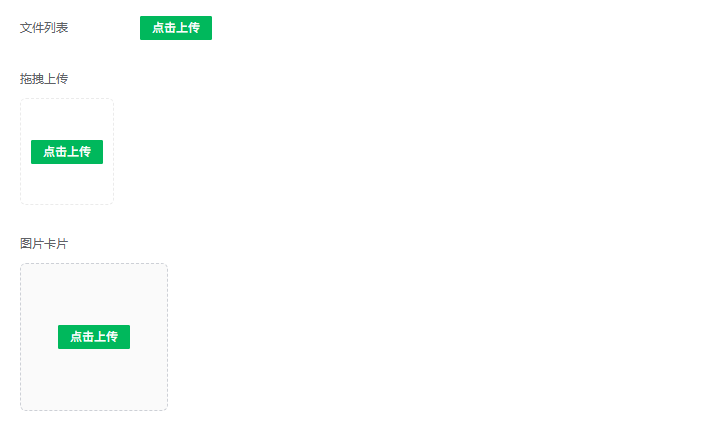
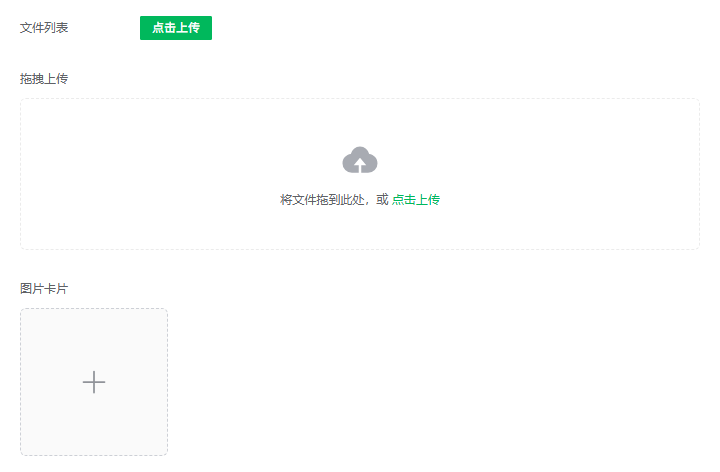
feat: 优化上传组件UI样式并调整布局间距
调整选项配置行的底部间距，统一标签页头部高度计算方式，重构上传组件的拖拽和显示样式，优化表单预览对话框的布局和样式，更新相关测试用例以匹配新的UI结构。

diff --git a/src/views/components/widget-renderer.vue b/src/views/components/widget-renderer.vue
@@ -107,15 +107,26 @@
         <el-upload
             v-else-if="widgetData.code === widgetList.WIDGET_UPLOAD.code"
             v-model:file-list="renderValue"
+            class="widget-upload"
             v-bind="renderComponentAttributes"
             v-on="getWidgetComponentEvents(widgetData, formData, widgetFormData)"
         >
-            <el-button type="primary">点击上传</el-button>
+            <div v-if="renderComponentAttributes.drag" class="widget-upload__drop-content" :class="{ 'widget-upload__drop-content--card': renderComponentAttributes.listType === 'picture-card' }">
+                <el-icon class="widget-upload__drop-icon" aria-hidden="true"><UploadFilled /></el-icon>
+                <div v-if="renderComponentAttributes.listType === 'picture-card'" class="widget-upload__drop-text">拖拽或点击添加</div>
+                <div v-else class="widget-upload__drop-text">
+                    将文件拖到此处，或
+                    <em>点击上传</em>
+                </div>
+            </div>
+            <el-icon v-else-if="renderComponentAttributes.listType === 'picture-card'" class="widget-upload__add" aria-label="添加图片"><Plus /></el-icon>
+            <el-button v-else type="primary">点击上传</el-button>
         </el-upload>
     </el-form-item>
 </template>
 <script setup lang="ts">
 import { computed, type PropType } from "vue";
+import { Plus, UploadFilled } from "@element-plus/icons-vue";
 import { type WidgetFormData, type WidgetNormalData } from "@/views/composables/types";
 import { useFormItemRules } from "@/views/composables/widgets/form";
 import { getWidgetComponentEvents, getWidgetList } from "@/views/composables/widget-registry";
@@ -182,5 +193,91 @@ const widgetList = getWidgetList();
 .html-contents {
     overflow-wrap: anywhere;
     font-size: 14px;
+}
+
+.widget-upload {
+    width: 100%;
+    min-width: 0;
+
+    // 卡片拖拽使用内层边框，消除双层边框和默认 padding 对居中的影响。
+    :deep(.el-upload--picture-card.is-drag) {
+        border: 0;
+
+        .el-upload-dragger {
+            width: 100%;
+            height: 100%;
+            padding: 0;
+            display: flex;
+            align-items: center;
+            justify-content: center;
+
+            &.is-dragover {
+                padding: 0;
+            }
+        }
+    }
+
+    :deep(.el-upload-list--text),
+    :deep(.el-upload-list--picture) {
+        width: 100%;
+        min-width: 0;
+
+        .el-upload-list__item-name {
+            white-space: normal;
+            overflow-wrap: anywhere;
+            align-items: flex-start;
+            text-align: left;
+            line-height: 1.5;
+
+            .el-icon--document {
+                flex-shrink: 0;
+                height: 1.5em;
+            }
+        }
+
+        .el-upload-list__item-file-name {
+            white-space: normal;
+            overflow-wrap: anywhere;
+            text-overflow: clip;
+        }
+    }
+}
+
+.widget-upload__drop-content {
+    display: flex;
+    flex-direction: column;
+    align-items: center;
+    justify-content: center;
+    gap: 12px;
+    padding: 0 8px;
+
+    &--card {
+        gap: 8px;
+
+        .widget-upload__drop-icon {
+            font-size: 28px;
+        }
+    }
+}
+
+.widget-upload__drop-icon {
+    font-size: 40px;
+    color: var(--el-text-color-placeholder);
+}
+
+.widget-upload__drop-text {
+    font-size: 12px;
+    line-height: 1.5;
+    color: var(--el-text-color-regular);
+
+    em {
+        color: var(--el-color-primary);
+        font-style: normal;
+    }
+}
+
+.widget-upload__add {
+    font-size: 28px;
+    color: var(--el-text-color-secondary);
 }
 </style>

diff --git a/src/views/components/designer-form-preview-dialog.vue b/src/views/components/designer-form-preview-dialog.vue
@@ -3,9 +3,6 @@
         <div class="designer-form-preview-dialog__content">
             <designer-form-preview-renderer v-if="widgetFormData" :widget-form-data="widgetFormData" />
         </div>
-        <template #footer>
-            <el-button @click="visible = false">关闭</el-button>
-        </template>
     </el-dialog>
 </template>
 
@@ -23,14 +20,47 @@ const visible = defineModel<boolean>({ required: true });
 </script>
 
 <style lang="scss">
-.designer-form-preview-dialog {
+.el-dialog.designer-form-preview-dialog {
+    --el-dialog-padding-primary: 0px;
     max-height: 90vh;
     display: flex;
     flex-direction: column;
+    padding: 0;
+    overflow: hidden;
+
+    .el-dialog__header {
+        flex: none;
+        height: 54px;
+        box-sizing: border-box;
+        display: flex;
+        align-items: center;
+        position: relative;
+        z-index: 1;
+        margin: 0;
+        padding: 0 48px 0 20px;
+        border-bottom: 1px solid var(--el-border-color-lighter);
+
+        &.show-close {
+            padding-right: 48px;
+        }
+
+        .el-dialog__title {
+            font-size: 16px;
+            line-height: 24px;
+        }
+
+        .el-dialog__headerbtn {
+            top: 0;
+            right: 0;
+            width: 44px;
+            height: 44px;
+        }
+    }
 
     .el-dialog__body {
+        flex: 1 1 auto;
         min-height: 0;
-        padding: 16px 20px;
+        padding: 0;
         overflow-y: auto;
     }
 
@@ -39,6 +69,7 @@ const visible = defineModel<boolean>({ required: true });
         max-width: 1040px;
         min-height: 240px;
         margin: 0 auto;
+        padding: 16px 20px;
     }
 }
 </style>

diff --git a/tests/unit/designer-form-preview-ui.spec.ts b/tests/unit/designer-form-preview-ui.spec.ts
@@ -26,10 +26,11 @@ describe("designer form preview UI", () => {
         expect(appSource).toContain("previewWidgetFormData.value = previewResult.data");
     });
 
-    it("Dialog 关闭后销毁内容并释放快照且只提供关闭命令", () => {
+    it("Dialog 关闭后销毁内容并释放快照，不再提供footer操作区", () => {
         expect(dialogSource).toContain("destroy-on-close");
         expect(dialogSource).toContain("@closed=\"emit('closed')\"");
-        expect(dialogSource).toContain("关闭");
+        expect(dialogSource).not.toContain("#footer");
+        expect(dialogSource).not.toContain("<el-button");
         expect(appSource).toContain("previewWidgetFormData.value = null");
         expect(dialogSource).not.toContain("提交");
         expect(dialogSource).not.toContain("重置");

diff --git a/tests/unit/designer-workspace-ui.spec.ts b/tests/unit/designer-workspace-ui.spec.ts
@@ -251,7 +251,7 @@ describe("widget drag drop", () => {
     });
 
     it("统一画布安全边距并使用外置完整浮层", () => {
-        expect(centerRenderPanelSource).toMatch(/\.tool-bar\s*\{[\s\S]*?height: 40px/);
+        expect(centerRenderPanelSource).toMatch(/\.tool-bar\s*\{[\s\S]*?height: calc\(var\(--el-tabs-header-height, 40px\) \+ 1px\)/);
         expect(centerRenderPanelSource).toMatch(/\.render-panel\s*\{[\s\S]*?padding: 16px/);
         expect(centerRenderPanelSource).toMatch(/\.drop-container\s*\{[\s\S]*?padding-top: 16px/);
         expect(centerRenderPanelSource).toMatch(/\.drag-item\s*\{[\s\S]*?\+ \.drag-item\s*\{[\s\S]*?margin-top: 16px/);

diff --git a/src/views/components/center-render-panel.vue b/src/views/components/center-render-panel.vue
@@ -239,13 +239,17 @@ onUnmounted(() => {
     flex: 1;
 
     .tool-bar {
-        height: 40px;
-        flex: 0 0 40px;
+        height: calc(var(--el-tabs-header-height, 40px) + 1px);
+        flex: 0 0 calc(var(--el-tabs-header-height, 40px) + 1px);
+        position: relative;
+        z-index: 10;
         display: flex;
         align-items: center;
         justify-content: flex-end;
         padding: 0 12px;
         background-color: var(--el-bg-color);
+        border-bottom: 1px solid var(--el-border-color-lighter);
+        box-shadow: 0 1px 3px rgba(0, 0, 0, 0.05);
 
         .tool-group {
             display: flex;

diff --git a/src/views/components/right-setting-panel.vue b/src/views/components/right-setting-panel.vue
@@ -90,6 +90,7 @@ const widgetComponent = computed(() => {
 
         .el-tabs__header {
             flex: none;
+            height: calc(var(--el-tabs-header-height, 40px) + 1px);
             margin: 0;
             background-color: #ffffff;
             border-bottom: 1px solid #e9ecef;

diff --git a/src/views/components/left-widget-panel.vue b/src/views/components/left-widget-panel.vue
@@ -151,6 +151,7 @@ onUnmounted(() => {
 
         .el-tabs__header {
             flex: none;
+            height: calc(var(--el-tabs-header-height, 40px) + 1px);
             margin: 0;
             background-color: #ffffff;
             border-bottom: 1px solid #e9ecef;

diff --git a/src/views/components/widgets-setting/checkbox-group.vue b/src/views/components/widgets-setting/checkbox-group.vue
@@ -136,6 +136,7 @@ const { isShowJsCodeEditorDialog, eventValue, showJsCodeEditorDialog, closeJsCod
 .option-config-row {
     display: flex;
     flex-direction: column;
+    margin-bottom: 16px;
 
     .label-text {
         padding: 8px 0px;

diff --git a/src/views/components/widgets-setting/radio-group.vue b/src/views/components/widgets-setting/radio-group.vue
@@ -117,6 +117,7 @@ const { isShowJsCodeEditorDialog, eventValue, showJsCodeEditorDialog, closeJsCod
 .option-config-row {
     display: flex;
     flex-direction: column;
+    margin-bottom: 16px;
 
     .label-text {
         padding: 8px 0px;

diff --git a/src/views/components/widgets-setting/select.vue b/src/views/components/widgets-setting/select.vue
@@ -187,6 +187,7 @@ const { isShowJsCodeEditorDialog, eventValue, showJsCodeEditorDialog, closeJsCod
 .option-config-row {
     display: flex;
     flex-direction: column;
+    margin-bottom: 16px;
 
     .label-text {
         padding: 8px 0px;
